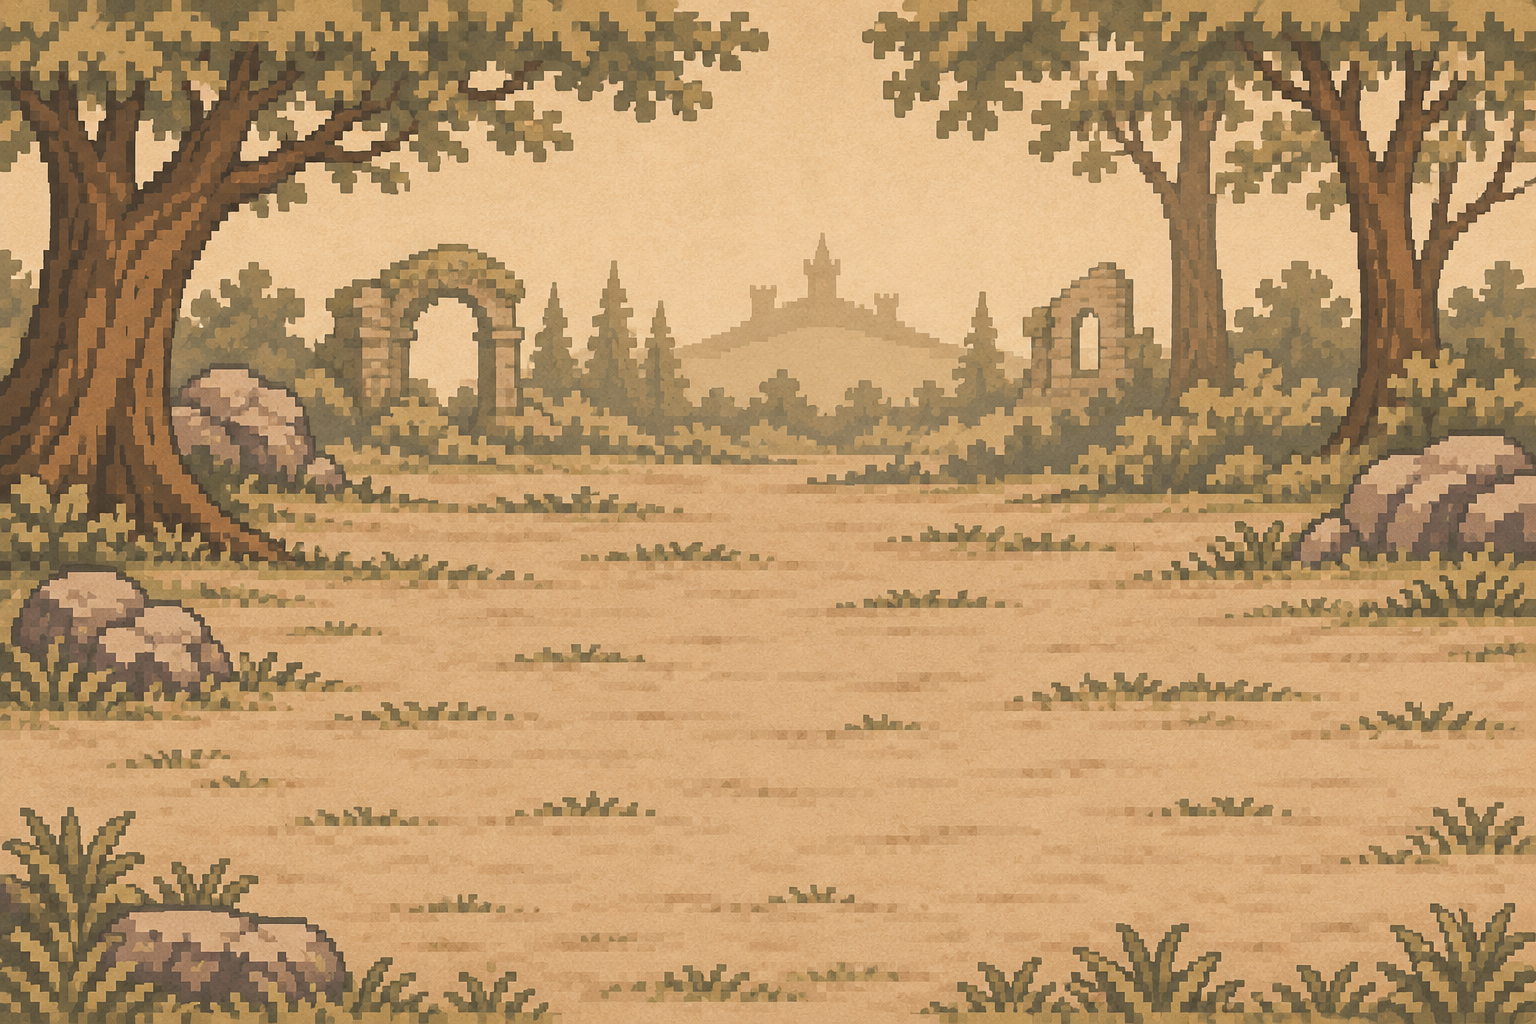
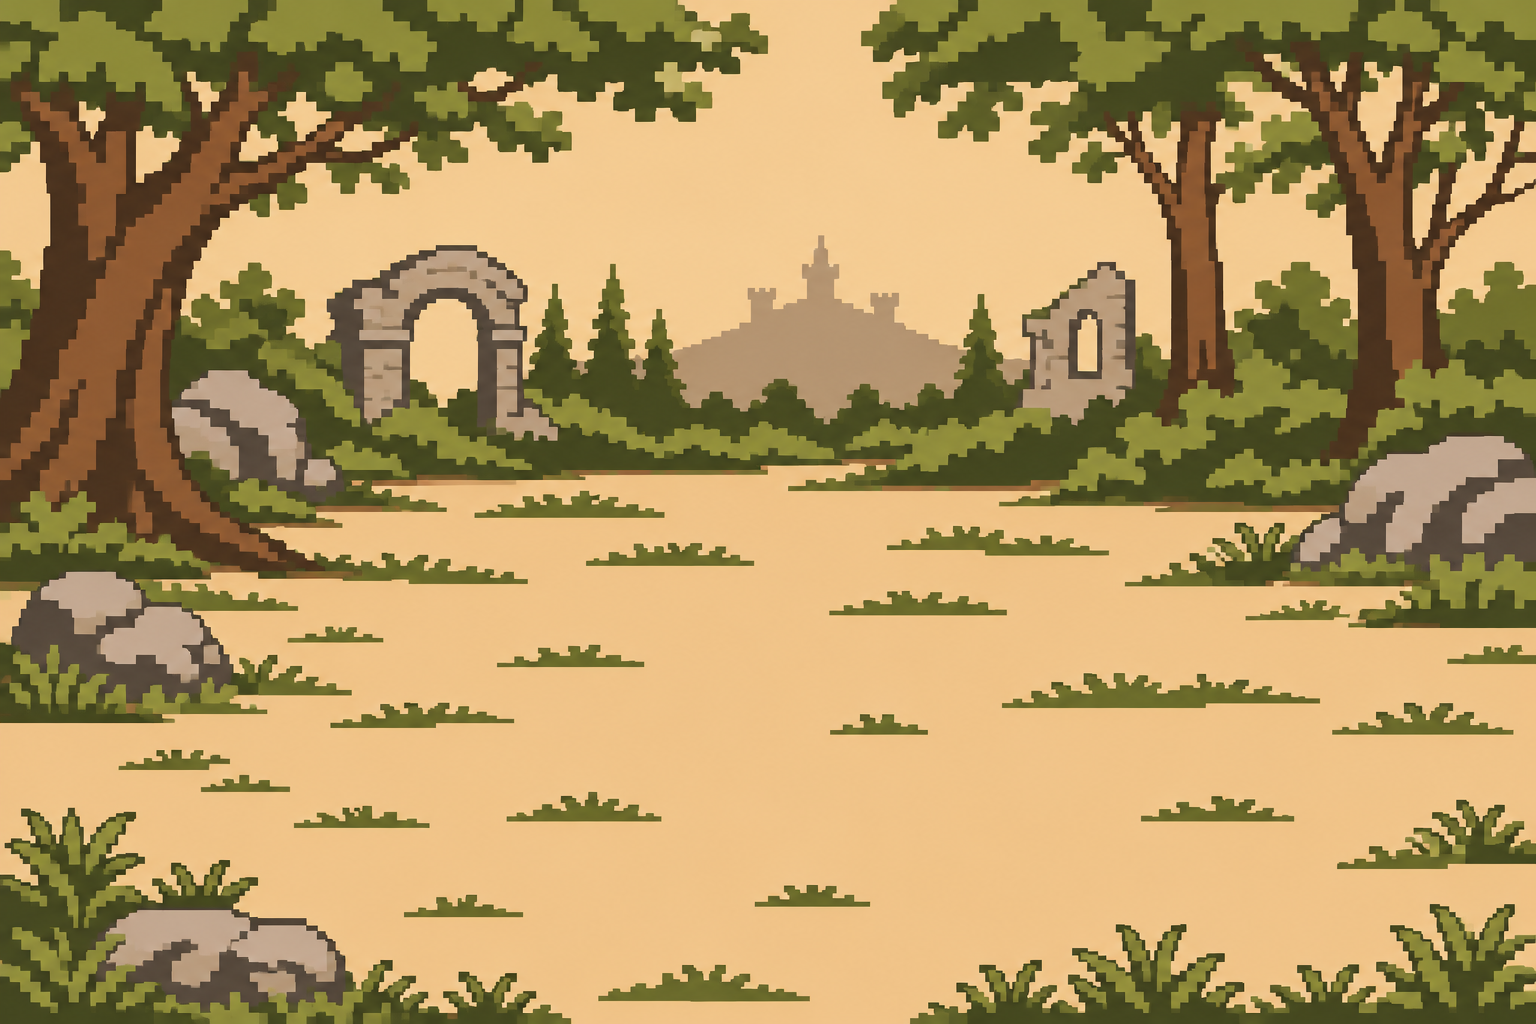
Use two-step shading throughout game artwork

diff --git a/Web/web/combat-lab.html b/Web/web/combat-lab.html
@@ -1,7 +1,7 @@
-<!doctype html><html lang="ko"><head><meta charset="utf-8"><meta name="viewport" content="width=device-width,initial-scale=1"><title>ARVITO · 전투 실험실</title><link rel="stylesheet" href="editor.css"><link rel="stylesheet" href="combat-lab.css"><link rel="stylesheet" href="combat.css"></head><body class="is-preparing">
+<!doctype html><html lang="ko"><head><meta charset="utf-8"><meta name="viewport" content="width=device-width,initial-scale=1"><title>ARVITO · 전투 실험실</title><link rel="stylesheet" href="editor.css"><link rel="stylesheet" href="combat-lab.css"><link rel="stylesheet" href="combat.css"><link rel="stylesheet" href="art-style.css"></head><body class="is-preparing">
 <header class="toolbar"><a class="wordmark" href="index.html">ARVITO</a><h1>전투 실험실</h1><button data-action="toggle-setup">전투 준비</button><a href="editor.html">이벤트 작업장 ↗</a><div class="tools"><button data-action="export">설정 내보내기</button><button data-action="import">설정 불러오기</button><a href="index.html">게임으로 ↗</a></div></header>
 <div class="storage-note">설정은 이 브라우저에 저장됩니다. 시험 전투는 실제 플레이 저장과 분리되며, 조정한 규칙은 실험실에만 적용됩니다.</div>
 <div id="lab-message" role="status" aria-live="polite"></div>
 <div class="lab-layout"><aside class="lab-setup"><h2>전투 준비</h2><div id="setup"></div><div class="launch"><button data-action="start" class="primary">이 설정으로 시작</button><button data-action="restart">같은 시드로 다시</button><button data-action="new-seed">다른 시드로 시작</button></div><details><summary>자동 밸런스 시험</summary><p>주인공이 위급할 때 회복약을 쓰고, 그 외에는 기대 피해가 높은 공격을 고르는 정책으로 30회 시험합니다.</p><button data-action="batch">30회 자동 시험</button><div id="batch-result" role="status"></div></details></aside>
 <main class="lab-battle"><div id="arena"></div><section class="lab-controls" id="actions"></section><section class="lab-log" hidden><h2>전투 기록</h2><div id="combat-log" role="log" aria-label="주사위와 전투 기록"></div></section></main>
-</div><dialog id="lab-dialog"></dialog><input id="setup-file" type="file" accept=".json,application/json" hidden><script type="module" src="combat-lab.mjs"></script></body></html>
+</div><dialog id="lab-dialog"></dialog><input id="setup-file" type="file" accept=".json,application/json" hidden><script type="module" src="combat-lab.mjs"></script><script type="module" src="art-renderer.mjs"></script></body></html>

diff --git a/Web/web/index.html b/Web/web/index.html
@@ -1,2 +1,2 @@
 <!doctype html>
-<html lang="ko"><head><meta charset="utf-8"><meta name="viewport" content="width=device-width,initial-scale=1,viewport-fit=cover"><meta name="theme-color" content="#3b2a20"><meta name="description" content="당신이 걸은 길이, 당신의 이름이 된다. 100개 사건을 만나는 한 모험가의 일대기."><title>ARVITO</title><link rel="preload" href="fonts/UnifrakturCook.woff" as="font" type="font/woff" crossorigin><link rel="preload" href="fonts/NotoSansKR-UI.woff" as="font" type="font/woff" crossorigin><link rel="preload" href="fonts/YiSunShin.woff" as="font" type="font/woff" crossorigin><link rel="stylesheet" href="styles.css"><link rel="stylesheet" href="viewport.css"><link rel="stylesheet" href="combat.css"></head><body><div id="app"><p class="boot">책을 펼치는 중…</p></div><dialog id="modal"></dialog><div id="toast" role="status" aria-live="polite"></div><script type="module" src="app.mjs"></script></body></html>
+<html lang="ko"><head><meta charset="utf-8"><meta name="viewport" content="width=device-width,initial-scale=1,viewport-fit=cover"><meta name="theme-color" content="#3b2a20"><meta name="description" content="당신이 걸은 길이, 당신의 이름이 된다. 100개 사건을 만나는 한 모험가의 일대기."><title>ARVITO</title><link rel="preload" href="fonts/UnifrakturCook.woff" as="font" type="font/woff" crossorigin><link rel="preload" href="fonts/NotoSansKR-UI.woff" as="font" type="font/woff" crossorigin><link rel="preload" href="fonts/YiSunShin.woff" as="font" type="font/woff" crossorigin><link rel="stylesheet" href="styles.css"><link rel="stylesheet" href="viewport.css"><link rel="stylesheet" href="combat.css"><link rel="stylesheet" href="art-style.css"></head><body><div id="app"><p class="boot">책을 펼치는 중…</p></div><dialog id="modal"></dialog><div id="toast" role="status" aria-live="polite"></div><script type="module" src="app.mjs"></script><script type="module" src="art-renderer.mjs"></script></body></html>

diff --git a/Web/web/editor.html b/Web/web/editor.html
@@ -1,5 +1,5 @@
 <!doctype html>
-<html lang="ko"><head><meta charset="utf-8"><meta name="viewport" content="width=device-width,initial-scale=1"><title>ARVITO · 이벤트 작업장</title><link rel="stylesheet" href="editor.css"></head>
+<html lang="ko"><head><meta charset="utf-8"><meta name="viewport" content="width=device-width,initial-scale=1"><title>ARVITO · 이벤트 작업장</title><link rel="stylesheet" href="editor.css"><link rel="stylesheet" href="art-style.css"></head>
 <body>
 <header class="toolbar"><a class="wordmark" href="index.html">ARVITO</a><h1>이벤트 작업장</h1><span id="save-state" role="status">초안 불러오는 중</span><div class="tools"><a class="lab-link" href="combat-lab.html">전투 실험실 ↗</a><button data-action="save">초안 저장</button><button data-action="export-draft">백업 JSON</button><button data-action="import">불러오기</button><button data-action="export-ready" class="primary">완성본 내보내기</button></div></header>
 <div class="storage-note">초안은 이 브라우저에 자동 저장됩니다. 다른 기기와 공유되거나 실제 게임에 자동 적용되지는 않습니다.</div>
@@ -12,4 +12,4 @@
 <dialog id="library"><div class="dialog-heading"><h2>기존 사건 참고</h2><button data-action="close-library" aria-label="닫기">닫기</button></div><p>선택한 사건만 새 초안으로 복사합니다.</p><label>검색<input id="library-search" type="search" placeholder="제목·본문 검색"></label><div id="library-list"></div></dialog>
 <input id="import-file" type="file" accept=".json,application/json" hidden>
 <script type="module" src="editor.mjs"></script>
-</body></html>
+<script type="module" src="art-renderer.mjs"></script></body></html>

diff --git a/Web/web/art-style.css b/Web/web/art-style.css
@@ -1,0 +1,7 @@
+/* Art has base + shadow only; UI color coding and natural paper remain legible. */
+.art-pending{visibility:hidden}
+.sprite,.combat-sprite{background-image:var(--character-art,none)!important;image-rendering:pixelated;image-rendering:crisp-edges}
+.combat-stage::before{background-image:var(--combat-scenery,none);opacity:1}
+.combat-stage::after{display:none}
+.combat-stage{box-shadow:none}
+img[data-shading="two-step"]{image-rendering:pixelated;image-rendering:crisp-edges}

diff --git a/Web/AGENTS.md b/Web/AGENTS.md
@@ -18,3 +18,5 @@
 - 사용자가 선택한 전투 판정은 d20 + 능력치 보정 대 방어도다. 새 전투에는 기본 d20 규칙을 적용하며 저장된 구형 진행 중 전투는 규칙이 바뀌지 않도록 유지한다. 주인공만 직접 조작하고 동료는 자동 행동한다. 전투 실험실은 플레이 저장 및 이벤트 초안과 별도이며 조정값을 실제 게임에 자동 배포하지 않는다.
 
 - 전투 화면은 사용자가 선택한 10개 전투 시안 중 **2번 양피지 기록장**을 따른다. 넓은 왼쪽 전장, 오른쪽 대상 정보·명중률·행동 메뉴, 하단 일행 상태, 상단의 작은 능력치 6종을 유지한다. 일반 사건 화면의 3번 시안과 별개다. 공격·기술·방어·도구는 실제 기존 기술을 선택하며 실행 버튼으로 확정한다. 기술과 전투 기록은 페이지로 나누고 전장 전체를 페이지로 쪼개지 않는다. 주인공만 조작하며 동료 카드 클릭은 회복/지원 대상 선택일 뿐 동료 명령이 아니다.
+
+- 모든 캐릭터·삽화·전투 배경의 명암은 **재질별 기본색 1개 + 그림자색 1개**로 제한한다. 중간톤·별도 하이라이트·그라데이션·디더링은 넣지 않는다. 전체를 두 색으로 바꾸는 것은 아니며, 절제된 양피지 계열 색 구분과 외곽선은 유지한다. `art-shading.mjs`의 고정 색 쌍과 공통 렌더러를 실제 게임·전투 실험실·이벤트 작업장에 적용한다. UI 글자·수치·아이콘의 가독성과 종이 표면 질감에는 이 삽화 규칙을 적용하지 않는다.

diff --git a/Web/README.md b/Web/README.md
@@ -98,3 +98,9 @@ Unity로 이식할 때 삽화와 사건 데이터는 재사용할 수 있지만 
 - 실험실에서 전투를 시작하면 준비 패널을 접어 전장을 넓히며, 상단 ‘전투 준비’ 버튼으로 다시 연다. 플레이 저장과 초안은 계속 분리된다.
 
 검증: 엔진·저장·이벤트·DOM 검사와 전투 UI 선택/잠금/기술·기록 페이지/픽셀 배율/실제 앱 실행 흐름을 검사한다. 현재 관리형 미리보기의 4173 릴레이 시간 초과 및 브라우저 requirements 오류로 실제 브라우저 레이아웃 검수는 수행하지 못했다.
+
+## 1.6.1 — 모든 그림의 명암을 두 단계로 통일
+
+캐릭터·이벤트 삽화·전투 배경을 공통 `art-renderer.mjs`로 표시한다. 6개 재질 계열마다 기본색과 그림자색만 허용한다(총 12개 불투명 색 이하). 원본 크기와 투명 영역은 보존하며 디더링·중간톤·하이라이트를 만들지 않는다. 재질별 밝기 분포로 경계를 골라 색상을 평면화한다. 전체를 두 색으로 만드는 흑백 변환과 다르다. 새로 추가하는 삽화도 같은 표시 규칙을 따른다.
+
+원본 파일은 보존하고 표시용 이미지를 메모리에 만들어 캐시한다. Web Worker에서 변환해 판정과 저장을 건드리지 않는다. Worker가 없는 환경에서는 같은 변환을 메인 스레드에서 실행한다. 이미지 변환 실패 시 원본을 표시한다. UI 정보와 종이 배경 질감은 그대로 유지한다. 전투 배경 원화도 두 단계 명암에 맞춰 다시 단순화했다.
